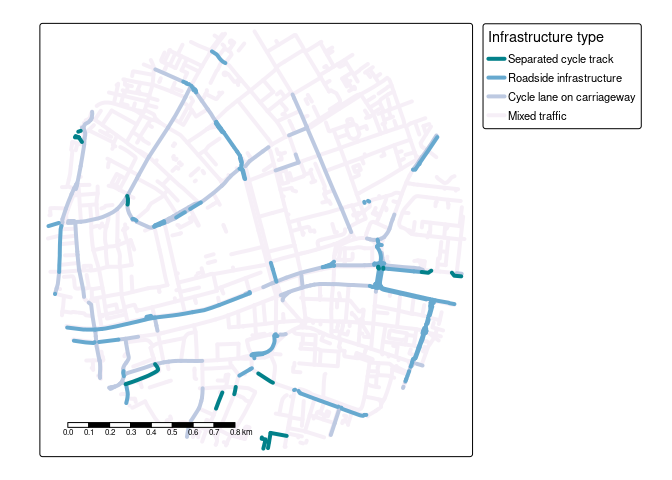
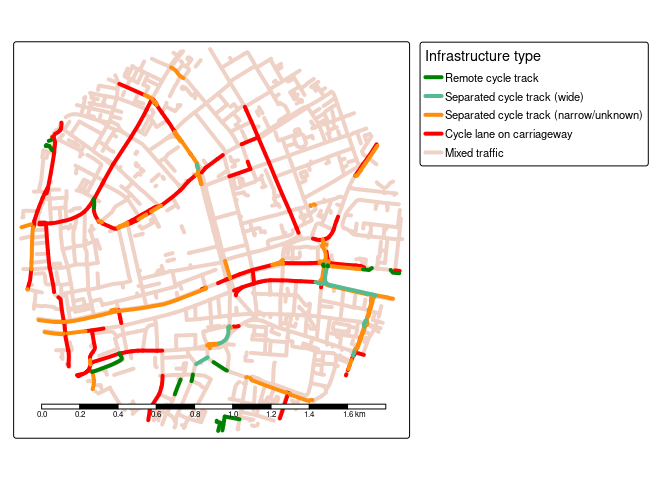
Redocument, update README figures

Changed region(s): [[0.0, 0.0312, 0.9688, 0.9688], [0.5938, 0.7188, 0.625, 0.8125]]

diff --git a/README.md b/README.md
@@ -24,7 +24,6 @@ library(osmactive)
 library(tmap) # for mapping
 library(dplyr) # for data manipulation
 library(sf) # for spatial data
-sf::sf_use_s2(FALSE)
 ```
 
 Alternatively, you can load the package with the following for local
@@ -45,15 +44,17 @@ cycle_net = classify_cycle_infrastructure(cycle_net)
 table(cycle_net$detailed_segregation)
 #> 
 #> Cycle lane on carriageway               Level track             Mixed traffic 
-#>                         1                        14                        52 
-#>     Separated cycle track 
-#>                         4
+#>                         1                        13                        52 
+#>        Remote cycle track        Stepped or footway 
+#>                         4                         1
 table(cycle_net$cycle_segregation)
 #> 
-#>     Separated cycle track   Roadside infrastructure Cycle lane on carriageway 
-#>                         4                        14                         1 
-#>             Mixed traffic 
-#>                        52
+#>                     Remote cycle track           Separated cycle track (wide) 
+#>                                      4                                      6 
+#> Separated cycle track (narrow/unknown)              Cycle lane on carriageway 
+#>                                      8                                      1 
+#>                          Mixed traffic 
+#>                                     52
 tm_shape(osm) +
   tm_lines(col = "grey") +
   tm_shape(cycle_net) +
@@ -80,11 +81,13 @@ m
 ``` r
 leeds_zb = zonebuilder::zb_zone("Leeds")
 leeds = leeds_zb |>
-  filter(circle_id == 1)
+  filter(circle_id == 1) |>
+  sf::st_union() |>
+  sf::st_make_valid()
 osm = get_travel_network("Leeds", boundary = leeds, boundary_type = "clipsrc")
 #> 0...10...20...30...40...50...60...70...80...90...100 - done.
 #> Reading layer `lines' from data source `/home/robin/data/osm/bbbike_Leeds.gpkg' using driver `GPKG'
-#> Simple feature collection with 4163 features and 31 fields
+#> Simple feature collection with 4163 features and 33 fields
 #> Geometry type: MULTILINESTRING
 #> Dimension:     XY
 #> Bounding box:  xmin: -1.558963 ymin: 53.78843 xmax: -1.528622 ymax: 53.80639
@@ -125,7 +128,7 @@ system.time({
   cycle_net = distance_to_road(cycle_net, drive_net)
 })
 #>    user  system elapsed 
-#>   0.136   0.000   0.137
+#>   0.371   0.000   0.371
 # 0.269s with union, 0.071s without
 cycle_net = classify_cycle_infrastructure(cycle_net)
 m = plot_osm_tmap(cycle_net)
@@ -143,11 +146,12 @@ dublin_zones = zonebuilder::zb_zone("Dublin")
 dublin = dublin_zones |>
   filter(circle_id == 1)
 osm = get_travel_network("Republic of Ireland", boundary = dublin, boundary_type = "clipsrc")
-#> 0...10...20...30...40...50...60...70...80...90...100 - done.
+#> 0...10...20...30...40...50...60...
+#> 70...80...90...100 - done.
 #> Reading layer `lines' from data source 
 #>   `/home/robin/data/osm/geofabrik_ireland-and-northern-ireland-latest.gpkg' 
 #>   using driver `GPKG'
-#> Simple feature collection with 3723 features and 31 fields
+#> Simple feature collection with 3723 features and 33 fields
 #> Geometry type: MULTILINESTRING
 #> Dimension:     XY
 #> Bounding box:  xmin: -6.275573 ymin: 53.3404 xmax: -6.245544 ymax: 53.35836
@@ -172,10 +176,11 @@ lisbon = sf::read_sf(f)
 lisbon = lisbon |>
   sf::st_cast("POLYGON")
 osm = get_travel_network("Portugal", boundary = lisbon, boundary_type = "clipsrc", force_vectortranslate = TRUE)
-#> 0...10...20...30...40...50...60...70...80...90...100 - done.
+#> 0...10...20...30...40...50...60...70...
+#> 80...90...100 - done.
 #> Reading layer `lines' from data source 
 #>   `/home/robin/data/osm/geofabrik_portugal-latest.gpkg' using driver `GPKG'
-#> Simple feature collection with 47866 features and 31 fields
+#> Simple feature collection with 47866 features and 33 fields
 #> Geometry type: MULTILINESTRING
 #> Dimension:     XY
 #> Bounding box:  xmin: -9.229835 ymin: 38.6914 xmax: -9.087336 ymax: 38.79747
@@ -193,6 +198,7 @@ m
 ## London
 
 ``` r
+devtools::load_all()
 london = zonebuilder::zb_zone("Southwark Station", n_circles = 1)
 london = sf::st_union(london) |>
   sf::st_make_valid()
@@ -201,10 +207,10 @@ osm = get_travel_network(london, boundary = london, boundary_type = "clipsrc")
 #> Reading layer `lines' from data source 
 #>   `/home/robin/data/osm/geofabrik_greater-london-latest.gpkg' 
 #>   using driver `GPKG'
-#> Simple feature collection with 6168 features and 33 fields
+#> Simple feature collection with 5856 features and 33 fields
 #> Geometry type: MULTILINESTRING
 #> Dimension:     XY
-#> Bounding box:  xmin: -0.1189676 ymin: 51.4957 xmax: -0.09016682 ymax: 51.51368
+#> Bounding box:  xmin: -0.1188785 ymin: 51.49424 xmax: -0.09009284 ymax: 51.51222
 #> Geodetic CRS:  WGS 84
 cycle_net = get_cycling_network(osm)
 drive_net = get_driving_network_major(osm)
